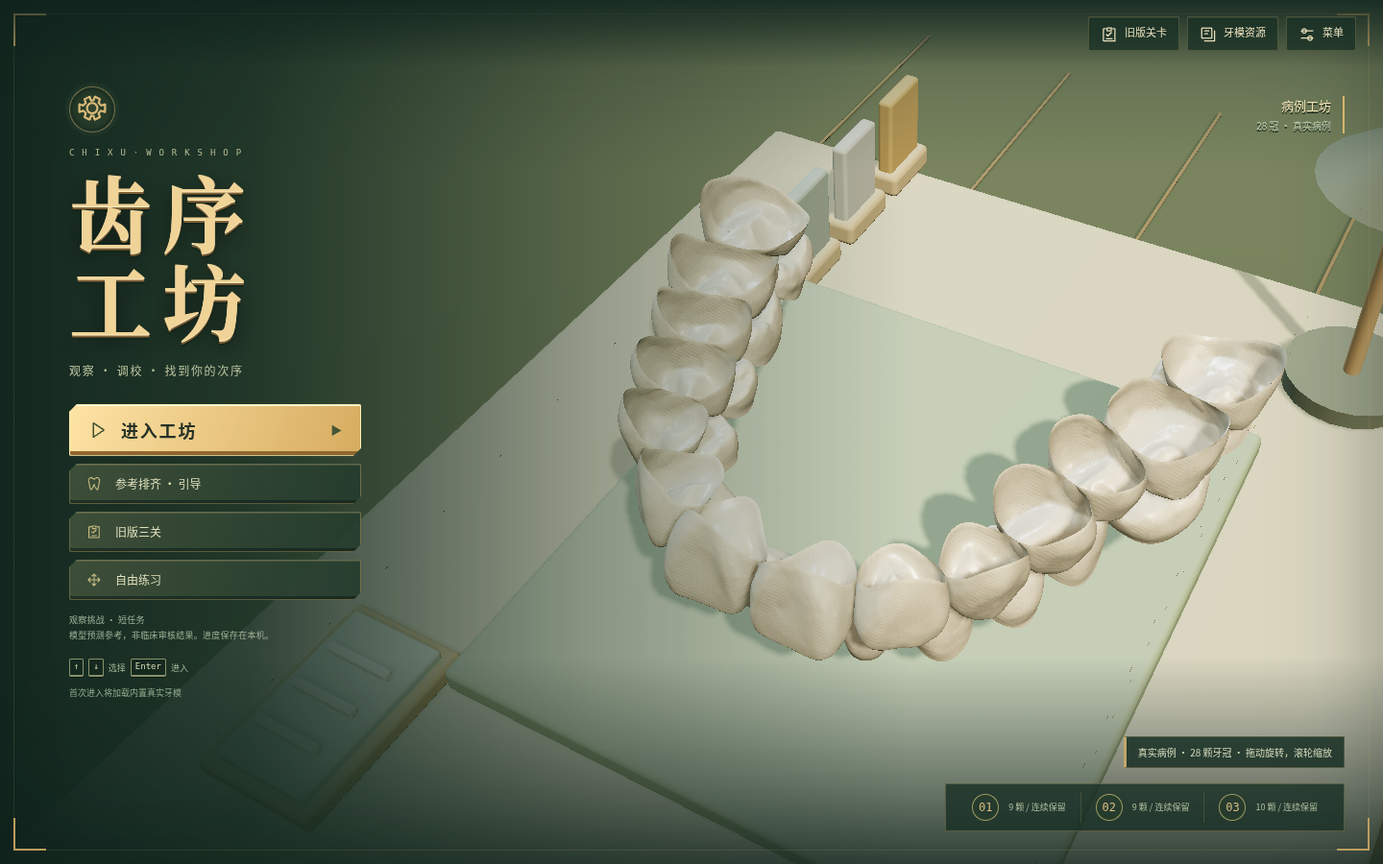
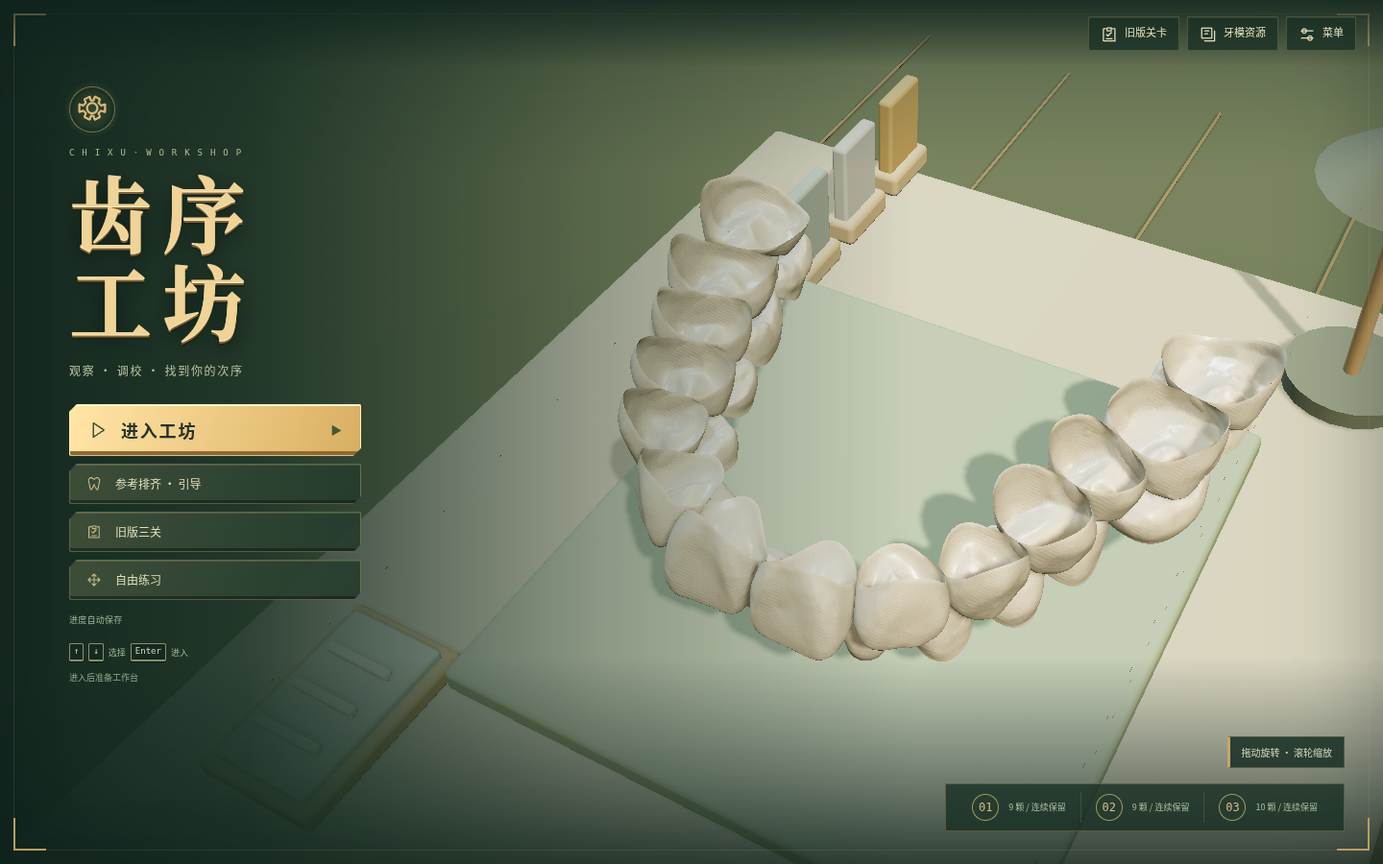
Remove development and provenance copy from player screens

Changed region(s): [[0.0312, 0.7156, 0.1875, 0.8089], [0.8125, 0.84, 0.9062, 0.9022], [0.9062, 0.1244, 0.9688, 0.1556]]

diff --git a/chi-xu-workshop/src/interaction-workshop.ts b/chi-xu-workshop/src/interaction-workshop.ts
@@ -138,7 +138,7 @@ export function mountPrediction(
     const label = labels[action] ?? text;
     return `<button data-int-action="${action}" title="${tips[action] ?? text}" aria-label="${tips[action] ?? text}"${["undo", "redo"].includes(action) ? ' data-icon-only="true"' : ""}>${uiIcon(action)}<span class="button-copy">${keycaps[action] ? label.replace(/ · (G|R|Esc)$/, "") : label}</span>${keycaps[action] ? `<kbd>${keycaps[action]}</kbd>` : ""}</button>`;
   };
-  app.innerHTML = `<header class="in-game"><button class="brand" data-int-action="exit"><span class="brand-mark">齿</span><span>齿序工坊<small>观察挑战 / 短任务</small></span></button><nav>${b("全屏", "fullscreen")}${b("导出记录", "export")}${b("回到首页", "exit")}</nav></header><main class="interaction-workshop"><div class="game-heading"><div><span class="eyebrow" id="int-batch"></span><h2 id="int-heading"></h2></div><span id="int-total"></span></div><section id="int-match" aria-label="当前参考匹配"><div><span id="int-score-label">当前任务 · 参考匹配</span><strong id="int-score">0.00</strong><small>/ 100</small></div><div id="int-score-meter" role="progressbar" aria-label="参考匹配指数" aria-valuemin="0" aria-valuemax="100" aria-valuenow="0"><span></span></div><p id="int-score-detail"></p><p id="int-best"></p></section><nav class="int-panel-tabs" aria-label="游戏面板">${b("任务", "panel-task")}${b("方案", "panel-plans")}${b("回放", "replay")}${b("返回操作", "current")}</nav><section class="int-layout"><div class="int-stage"><div id="int-viewport"><div class="game-stage-frame" aria-hidden="true"><i></i><i></i><i></i><i></i><span>CHI XU / CASE WORKBENCH</span></div><div id="int-compare-canvas"></div><div id="int-tooth-label"></div><div id="int-mode-banner" role="status"></div><div id="int-motion-cue" role="status" hidden></div><div id="int-divider" hidden role="slider" aria-label="拖动对比线" aria-valuemin="0" aria-valuemax="100" aria-valuenow="50" tabindex="0"></div><div id="int-curtain" hidden><span>原始</span><span>当前</span><input aria-label="前后对比滑帘" type="range" min="0" max="100" value="50"></div></div><div class="int-viewbar">${b("整体看", "view-overview")}${b("从上面看", "view-occlusal")}${b("换个角度", "view-front")}${b("另一侧", "view-side")}${b("放大观察", "focus")}${b("退远一点", "zoom")}</div><section class="int-controls" aria-label="牙齿操作"><div class="int-toolbar">${b("挪位置", "translate")}${b("转方向", "rotate")}<label>世界轴 <select id="int-axis" aria-label="调整轴"><option>X</option><option>Y</option><option>Z</option></select></label><label><input id="int-fine" type="checkbox">细调</label></div><p id="int-instruction"></p><div class="int-toolbar">${b("− 反向（可长按）", "minus")}${b("＋ 正向（可长按）", "plus")}${b("取消拖动 · Esc", "cancel")}${b("撤销", "undo")}${b("重做", "redo")}${b("核对这颗", "check")}</div><div class="int-toolbar int-observe-tools">${b("按住查看参考", "hold")}${b("参考轮廓", "hint")}${b("前后滑帘", "compare")}${b("双牙对照", "pair")}${b("声音：关", "sound")}</div><div class="int-toolbar">${b("先预览反向一步", "preview-minus")}${b("先预览正向一步", "preview-plus")}${b("应用试步", "apply-trial")}</div><p id="int-readout"></p><p id="int-feedback" role="status"></p></section></div><section id="int-task-panel" class="int-floating-panel" aria-label="任务面板"><div class="int-panel-heading"><strong>任务档案</strong>${b("收起", "close-panel")}</div><aside id="int-sidebar"></aside></section><section id="int-plans-panel" class="int-floating-panel" aria-label="方案试验台" hidden><div class="int-panel-heading"><strong>方案试验台</strong>${b("收起", "close-panel")}</div><div class="int-plan-actions">${b("保存当前尝试", "save-attempt")}${b("恢复个人最佳", "restore-best")}</div><section class="int-open-lab" aria-label="开放试验"><strong>开放试验 · 不要求唯一终点</strong><p>选择过程目标：将所选差距缩小至少 40%，另一项不变差。达成后可保存当前尝试；最终核对仍使用原参考。</p><label>试验目标<select id="int-lab-goal" aria-label="试验目标"><option value="position">先改善位置，保持方向</option><option value="rotation">先改善方向，保持位置</option><option value="balanced">位置与方向一起改善</option></select></label>${b("开始开放试验", "start-lab")}<p id="int-lab-status" role="status"></p></section><p id="int-book-warning" role="status"></p><div id="int-plans"></div><details><summary>匹配指数如何计算</summary><p>分别计算本任务牙齿与预测参考的位置、角度均方根误差；按初始差距归一化（下限为软件容差），比较合计差距得到 0—100 指数。指数只表示参考差距，逐牙核对仍须同时满足位置和方向条件。自动保留本任务指数最高的尝试，手动保留最近 12 份方案。</p></details></section></section><section class="int-replay int-floating-panel" id="int-replay-panel" aria-label="回放面板" hidden><div class="int-panel-heading"><strong>操作时间轴与自评</strong>${b("收起", "close-panel")}</div><div class="int-toolbar">${b("从起点回看", "replay-start")}${b("回到实际进度", "return-live")}${b("另开一次练习", "retry")}</div><label>拖动回看 <input id="int-timeline" aria-label="操作时间轴" type="range" min="0" value="0" max="0"></label><p id="int-replay-label"></p><ol id="int-events"></ol><p id="int-stats"></p><p class="reference-note">回放只读；新练习使用独立存档。时间轴保留最近 400 个操作，之前的操作合入起点。全部目标来自模型预测，非临床审核结果；颜色和提示不表示实际治疗效果。</p></section></main>`;
+  app.innerHTML = `<header class="in-game"><button class="brand" data-int-action="exit"><span class="brand-mark">齿</span><span>齿序工坊<small>观察挑战 / 短任务</small></span></button><nav>${b("全屏", "fullscreen")}${b("导出记录", "export")}${b("回到首页", "exit")}</nav></header><main class="interaction-workshop"><div class="game-heading"><div><span class="eyebrow" id="int-batch"></span><h2 id="int-heading"></h2></div><span id="int-total"></span></div><section id="int-match" aria-label="当前参考匹配"><div><span id="int-score-label">当前任务 · 参考匹配</span><strong id="int-score">0.00</strong><small>/ 100</small></div><div id="int-score-meter" role="progressbar" aria-label="参考匹配指数" aria-valuemin="0" aria-valuemax="100" aria-valuenow="0"><span></span></div><p id="int-score-detail"></p><p id="int-best"></p></section><nav class="int-panel-tabs" aria-label="游戏面板">${b("任务", "panel-task")}${b("方案", "panel-plans")}${b("回放", "replay")}${b("返回操作", "current")}</nav><section class="int-layout"><div class="int-stage"><div id="int-viewport"><div class="game-stage-frame" aria-hidden="true"><i></i><i></i><i></i><i></i><span>CHI XU / CASE WORKBENCH</span></div><div id="int-compare-canvas"></div><div id="int-tooth-label"></div><div id="int-mode-banner" role="status"></div><div id="int-motion-cue" role="status" hidden></div><div id="int-divider" hidden role="slider" aria-label="拖动对比线" aria-valuemin="0" aria-valuemax="100" aria-valuenow="50" tabindex="0"></div><div id="int-curtain" hidden><span>原始</span><span>当前</span><input aria-label="前后对比滑帘" type="range" min="0" max="100" value="50"></div></div><div class="int-viewbar">${b("整体看", "view-overview")}${b("从上面看", "view-occlusal")}${b("换个角度", "view-front")}${b("另一侧", "view-side")}${b("放大观察", "focus")}${b("退远一点", "zoom")}</div><section class="int-controls" aria-label="牙齿操作"><div class="int-toolbar">${b("挪位置", "translate")}${b("转方向", "rotate")}<label>世界轴 <select id="int-axis" aria-label="调整轴"><option>X</option><option>Y</option><option>Z</option></select></label><label><input id="int-fine" type="checkbox">细调</label></div><p id="int-instruction"></p><div class="int-toolbar">${b("− 反向（可长按）", "minus")}${b("＋ 正向（可长按）", "plus")}${b("取消拖动 · Esc", "cancel")}${b("撤销", "undo")}${b("重做", "redo")}${b("核对这颗", "check")}</div><div class="int-toolbar int-observe-tools">${b("按住查看参考", "hold")}${b("参考轮廓", "hint")}${b("前后滑帘", "compare")}${b("双牙对照", "pair")}${b("声音：关", "sound")}</div><div class="int-toolbar">${b("先预览反向一步", "preview-minus")}${b("先预览正向一步", "preview-plus")}${b("应用试步", "apply-trial")}</div><p id="int-readout"></p><p id="int-feedback" role="status"></p></section></div><section id="int-task-panel" class="int-floating-panel" aria-label="任务面板"><div class="int-panel-heading"><strong>任务档案</strong>${b("收起", "close-panel")}</div><aside id="int-sidebar"></aside></section><section id="int-plans-panel" class="int-floating-panel" aria-label="方案试验台" hidden><div class="int-panel-heading"><strong>方案试验台</strong>${b("收起", "close-panel")}</div><div class="int-plan-actions">${b("保存当前尝试", "save-attempt")}${b("恢复个人最佳", "restore-best")}</div><section class="int-open-lab" aria-label="开放试验"><strong>开放试验 · 不要求唯一终点</strong><p>选择过程目标：将所选差距缩小至少 40%，另一项不变差。达成后可保存当前尝试；最终核对仍使用原参考。</p><label>试验目标<select id="int-lab-goal" aria-label="试验目标"><option value="position">先改善位置，保持方向</option><option value="rotation">先改善方向，保持位置</option><option value="balanced">位置与方向一起改善</option></select></label>${b("开始开放试验", "start-lab")}<p id="int-lab-status" role="status"></p></section><p id="int-book-warning" role="status"></p><div id="int-plans"></div><details><summary>匹配指数如何计算</summary><p>分别计算本任务牙齿与预测参考的位置、角度均方根误差；按初始差距归一化（下限为软件容差），比较合计差距得到 0—100 指数。指数只表示参考差距，逐牙核对仍须同时满足位置和方向条件。自动保留本任务指数最高的尝试，手动保留最近 12 份方案。</p></details></section></section><section class="int-replay int-floating-panel" id="int-replay-panel" aria-label="回放面板" hidden><div class="int-panel-heading"><strong>操作时间轴与自评</strong>${b("收起", "close-panel")}</div><div class="int-toolbar">${b("从起点回看", "replay-start")}${b("回到实际进度", "return-live")}${b("另开一次练习", "retry")}</div><label>拖动回看 <input id="int-timeline" aria-label="操作时间轴" type="range" min="0" value="0" max="0"></label><p id="int-replay-label"></p><ol id="int-events"></ol><p id="int-stats"></p><p class="reference-note">回放只读；新练习使用独立存档。时间轴保留最近 400 个操作，之前的操作合入起点。</p></section></main>`;
   document.body.dataset.screen = "play";
   document.body.classList.add("interaction-mode");
   const get = <T extends HTMLElement = HTMLElement>(s: string) =>
@@ -529,7 +529,7 @@ export function mountPrediction(
               : compare
                 ? "前后滑帘 · 只读"
                 : done()
-                  ? "全部 28 颗达到模型预测参考"
+                  ? "全部任务已完成"
                   : !observed
                     ? "观察阶段 · 先从两个角度看，再提交判断"
                     : "";
@@ -996,7 +996,7 @@ export function mountPrediction(
           peer = null;
           hint = false;
           feedback = done()
-            ? "全部 28 颗已核对到模型预测参考。"
+            ? "全部任务已完成，可以回看你的调整过程。"
             : "上个任务结果连续保留，开始下一次观察。";
           apply();
           hud();

diff --git a/chi-xu-workshop/src/main.ts b/chi-xu-workshop/src/main.ts
@@ -103,7 +103,7 @@ function render(){
  const main=$('#main')!;
  if(screen==='home'){
  let workshopSave=false;try{workshopSave=!!localStorage.getItem('chi-xu-workshop:reference-challenge:v2');}catch{}
- main.innerHTML=`<section class="home game-title"><figure class="hero title-studio"><div id="title-studio" aria-label="可旋转的真实3D牙模"></div><div class="title-vignette" aria-hidden="true"></div><div class="specimen-label"><span>病例工坊</span><small>28 冠 · 真实病例</small></div><figcaption id="studio-status" role="status">正在准备真实牙模…</figcaption></figure><div class="title-frame" aria-hidden="true"><i></i><i></i><i></i><i></i></div><div class="home-copy"><div class="title-crest" aria-hidden="true">${uiIcon('emblem')}</div><div class="eyebrow">C H I X U · W O R K S H O P</div><h1>齿序<span>工坊</span></h1><p class="lead">观察 · 调校 · 找到你的次序</p><nav class="home-card" aria-label="游戏主菜单">${btn(workshopSave?'继续工坊':'进入工坊','interaction',true,false,'data-menu-primary="true"')}${btn('参考排齐 · 引导','prediction')}${hasSave()?btn('继续旧版挑战','continue'):btn('旧版三关','new')}${btn('自由练习','practice')}${hasSave()?btn('重开旧版挑战','new'):''}<small>观察挑战 · 短任务<br>模型预测参考，非临床审核结果。进度保存在本机。</small></nav><div class="home-menu-help"><kbd>↑</kbd><kbd>↓</kbd> 选择 <kbd>Enter</kbd> 进入</div><p class="asset-status">${assets?'真实牙模已就绪':'首次进入将加载内置真实牙模'}</p></div><div class="title-chapters" aria-label="同一病例的三个连续批次">${[9,9,10].map((n,i)=>`<span><b>0${i+1}</b><small>${n} 颗 / 连续保留</small></span>`).join('')}</div></section>${warning?`<div class="warning title-warning">${esc(warning)}${btn('导出旧记录','export-raw')}</div>`:''}`;
+ main.innerHTML=`<section class="home game-title"><figure class="hero title-studio"><div id="title-studio" aria-label="可旋转的牙模"></div><div class="title-vignette" aria-hidden="true"></div><figcaption id="studio-status" role="status">正在准备工坊…</figcaption></figure><div class="title-frame" aria-hidden="true"><i></i><i></i><i></i><i></i></div><div class="home-copy"><div class="title-crest" aria-hidden="true">${uiIcon('emblem')}</div><div class="eyebrow">C H I X U · W O R K S H O P</div><h1>齿序<span>工坊</span></h1><p class="lead">观察 · 调校 · 找到你的次序</p><nav class="home-card" aria-label="游戏主菜单">${btn(workshopSave?'继续工坊':'进入工坊','interaction',true,false,'data-menu-primary="true"')}${btn('参考排齐 · 引导','prediction')}${hasSave()?btn('继续旧版挑战','continue'):btn('旧版三关','new')}${btn('自由练习','practice')}${hasSave()?btn('重开旧版挑战','new'):''}<small>进度自动保存</small></nav><div class="home-menu-help"><kbd>↑</kbd><kbd>↓</kbd> 选择 <kbd>Enter</kbd> 进入</div><p class="asset-status">${assets?'工坊已就绪':'进入后准备工作台'}</p></div><div class="title-chapters" aria-label="同一病例的三个连续批次">${[9,9,10].map((n,i)=>`<span><b>0${i+1}</b><small>${n} 颗 / 连续保留</small></span>`).join('')}</div></section>${warning?`<div class="warning title-warning">${esc(warning)}${btn('导出旧记录','export-raw')}</div>`:''}`;
  disposeStudio=mountStudio($('#title-studio')!,$('#studio-status')!,assets);
  }else if(screen==='levels'){
  const count=session?.saved_snapshots.length??0;
@@ -236,10 +236,10 @@ function installCase(next:CaseAssets){
 }
 async function loadBuiltIn(after=''){
  if(loadingBuiltIn)return;
- loadingBuiltIn=true;requestedAfterLoad=after;const loadingDialog=$<HTMLDialogElement>('#modal')!;loadingDialog.innerHTML=`<div class="loading-workbench"><span class="loading-symbol" aria-hidden="true">＋</span><h2>正在准备工作台</h2><p id="load-state" role="status">正在读取真实牙模。</p><small>第一次需要一点时间，正在加载真实牙模。</small></div>`;loadingDialog.showModal();const input=$<HTMLInputElement>('#case-files');if(input)input.disabled=true;
- const status=$('#load-state');if(status)status.textContent='正在校验内置病例清单…';
+ loadingBuiltIn=true;requestedAfterLoad=after;const loadingDialog=$<HTMLDialogElement>('#modal')!;loadingDialog.innerHTML=`<div class="loading-workbench"><span class="loading-symbol" aria-hidden="true">＋</span><h2>正在准备工作台</h2><p id="load-state" role="status">正在准备工作台。</p><small>首次进入需要一点时间。</small></div>`;loadingDialog.showModal();const input=$<HTMLInputElement>('#case-files');if(input)input.disabled=true;
+ const status=$('#load-state');if(status)status.textContent='正在准备工作台…';
  try{
-  const next=await loadBundledCase(text=>{const label=$('#load-state');if(label){const match=text.match(/(\d+)\/28/);label.textContent=match?`正在摆好牙齿 ${match[1]} / 28`:text;}});
+  const next=await loadBundledCase(text=>{const label=$('#load-state');if(label){const match=text.match(/(\d+)\/28/);label.textContent=match?`正在摆好牙齿 ${match[1]} / 28`:'正在准备工作台…';}});
   installCase(next);$<HTMLDialogElement>('#modal')?.close();screen='home';render();
   if(after==='new')newChallenge();else if(after==='continue')resume();else if(after==='practice')startPractice();else if(after==='prediction')void openPrediction();else if(after==='interaction')void openPrediction(true);
  }catch(err){openAssets(after);const label=$('#load-state');if(label){label.textContent=String(err);label.classList.add('error');}else toast(String(err));}
@@ -247,7 +247,7 @@ async function loadBuiltIn(after=''){
 }
 
 let requestedAfterLoad='';
-function openAssets(after=''){requestedAfterLoad=after;const d=$<HTMLDialogElement>('#modal')!;d.innerHTML=`<div class="dialog-heading"><div><span class="eyebrow">病例资源 / 本机读取</span><h2>接入真实牙冠</h2></div>${btn('关闭','close-modal')}</div><p>已收到用户上传的 28 个真实 STL，可直接加载内置病例。若要更换病例，也可选择本机文件。Windows 原路径 <code>D:\\论文复现\\CLIK-Diffusion-main\\Data\\256_crown\\initial\\</code> 未直接挂载；可以选择 28 个 STL 和已填写的病例 JSON。文件仅在浏览器内解析，不上传服务器。</p><div class="warning">真实网格已接入；单位、上下颌、FDI、邻接与教学角色仍待核对。编号直接沿用 STL 文件名，不自动转换牙位。</div><ol><li>在 Windows 工作目录运行 <code>node scripts/inspect-assets.mjs --source "D:\\论文复现\\CLIK-Diffusion-main\\Data\\256_crown\\initial" --out case.draft.json</code>。</li><li>核对草稿中的模型编号、上下颌、来源、单位、相机与教学轴。未知 FDI 保持 null，未知单位使用 u。</li><li>将文件改名为 case.json，与原始 STL 一起选择。不会根据文件顺序自动映射牙位。</li></ol><label class="file-drop">选择病例 JSON 和 28 个 STL<input id="case-files" type="file" accept=".json,.stl,.STL" multiple></label><p id="load-state" role="status">${assets?`已载入：${esc(m().case_id)} · ${assets.assets.length} 颗牙冠 · ${assets.assets.reduce((s,a)=>s+a.triangles,0).toLocaleString()} 三角形`:'尚未载入病例'}</p><div class="button-row">${btn(loadingBuiltIn?'正在加载真实病例…':'加载已上传的真实病例','load-built-in',true,loadingBuiltIn)}${btn('下载参数模板','template')}${btn('导出旧存档','export-raw')}</div><p class="muted">单位、牙位和教学角色未审核时只能标为原型位姿练习。真实网格、来源审核与性能实测完成前不视为正式交付。</p>`;d.showModal();}
+function openAssets(after=''){requestedAfterLoad=after;const d=$<HTMLDialogElement>('#modal')!;d.innerHTML=`<div class="dialog-heading"><div><span class="eyebrow">练习设置</span><h2>选择练习模型</h2></div>${btn('关闭','close-modal')}</div><p>可以直接开始内置练习，或导入自己的病例 JSON 和对应的 28 个 STL。导入文件仅在本机读取。</p><details><summary>导入格式说明</summary><p>请使用参数模板填写模型编号，并确保每个编号、文件名和校验值与 STL 对应。填写完成后，将病例 JSON 与对应 STL 一起选择。</p></details><label class="file-drop">选择病例 JSON 和 28 个 STL<input id="case-files" type="file" accept=".json,.stl,.STL" multiple></label><p id="load-state" role="status">${assets?'练习已就绪':'请选择练习'}</p><div class="button-row">${btn(loadingBuiltIn?'正在准备练习…':'开始内置练习','load-built-in',true,loadingBuiltIn)}${btn('下载参数模板','template')}${btn('导出旧存档','export-raw')}</div>`;d.showModal();}
 function template(){exportData({case_id:'请填写匿名病例ID',asset_version:'待核对-v1',config_version:'prd-v1-provisional',unit:'u',unit_confirmed:false,scale:1,source:'待核对',usage_status:'待核对',teaching_reviewed:false,adjacency_confirmed:false,adjacency:[],teeth:Array.from({length:28},(_,i)=>({mesh_id:String(i+1),mesh_uri:'请填写对应原始文件名-'+(i+1)+'.stl',checksum:'请填写实际SHA256',jaw_group:'unknown',FDI:null,origin:[0,0,0],source:'待核对',usage_status:'待核对'})),levels:defaultLevels()},'case.template.json');}
 function openSettings(){const d=$<HTMLDialogElement>('#modal')!;d.innerHTML=`<div class="dialog-heading"><h2>歇一下，再继续</h2>${btn('回到游戏','close-modal',true)}</div><div class="menu-options">${btn('关卡地图','levels')}${btn('回到首页','home')}${assets?btn('保存一份记录','export'):''}</div><label class="setting"><input id="low-mode" type="checkbox" ${low?'checked':''}>画面更流畅（减少显示细节）</label><label class="setting"><input id="reduce-motion" type="checkbox" ${reduced?'checked':''}>减少动画</label><label class="setting"><input id="show-base" type="checkbox" ${showBase?'checked':''}>显示小工作台</label><details><summary>资源与练习说明</summary><p>这是一段牙齿摆放练习，不是诊疗建议。真实牙位、单位与教学角色仍待核对。触屏先使用点选和按钮；暂无音效。</p>${btn('牙模资源与导入','assets')}${assets?btn('查看练习细节','details'):''}</details>`;d.showModal();}
 window.addEventListener('keydown',e=>{if(screen!=='home'||document.body.classList.contains('interaction-mode')||document.querySelector('dialog[open]')||(e.target as HTMLElement).closest('input,select,textarea'))return;if(e.key!=='ArrowDown'&&e.key!=='ArrowUp')return;const buttons=[...document.querySelectorAll<HTMLButtonElement>('.home-card button:not(:disabled)')];if(!buttons.length)return;e.preventDefault();const index=buttons.indexOf(document.activeElement as HTMLButtonElement),next=index<0?(e.key==='ArrowDown'?0:buttons.length-1):(index+(e.key==='ArrowDown'?1:-1)+buttons.length)%buttons.length;buttons[next].focus();});

diff --git a/chi-xu-workshop/src/prediction-workshop.ts b/chi-xu-workshop/src/prediction-workshop.ts
@@ -50,7 +50,7 @@ export function mountPrediction(app:HTMLElement,assets:CaseAssets,reference:Pred
   get('#reference-total').textContent=`全病例 ${completed} / 28 颗到达参考`;
   const error=poseError(referencePoses(data,progress)[selected],data.target[selected]);
   get('#reference-controls').innerHTML=`<div class="motion-heading"><strong>文件 ${selected} · 引导模式</strong></div><p class="motion-explanation">此入口用按钮同步移动与旋转，进度条只读。要分别练习位置和方向，请回首页选择“观察挑战 · 短任务”。</p><div class="motion-buttons">${b('← 退一步','back',!editing()||progress.steps[selected]===0)}${b('朝目标前进一步 →','forward',!editing()||progress.steps[selected]===10)}</div><div class="reference-progress" role="progressbar" aria-label="参考路径进度（只读）" aria-valuemin="0" aria-valuemax="100" aria-valuenow="${progress.steps[selected]*10}"><span style="width:${progress.steps[selected]*10}%"></span></div><p class="reference-readout"><span id="reference-percent">${progress.steps[selected]*10}%</span> · 距参考 ${error.position.toFixed(2)} u / ${error.rotation.toFixed(1)}°</p><div class="reference-mini-actions">${b('撤销','undo',!editing()||!undo.length)}${b('重做','redo',!editing()||!redo.length)}${b('换下一颗','next-tooth',!editing())}</div><p class="motion-feedback" role="status">${feedback}</p>`;
-  get('#reference-sidebar').innerHTML=`<span class="eyebrow">${isDone()?'参考练习记录':'当前批次'}</span><h2>${isDone()?'全部 28 颗均已核对到参考位置。':`本批 ${group.filter(id=>progress.steps[id]===10).length} / ${group.length} 颗到达参考`}</h2><p class="reference-explanation">${isDone()?'最终画面使用你上传结果中的全部 28 个刚体变换。':`完成本批只代表这 ${group.length} 颗到位，仍有 ${28-completed} 颗未到参考位置，不代表整副牙齿已排齐。`}</p><div class="reference-tooth-list">${group.map((id,i)=>`<button data-pred-action="select-${id}" aria-pressed="${selected===id}" ${isDone()?'disabled':''}><span>${progress.steps[id]===10?'✓':i+1}</span><strong>文件 ${id}</strong><small>${progress.steps[id]*10}%</small></button>`).join('')}</div><div class="comparison-controls">${b('看原始牙列','original')}${b('看模型参考','target')}${comparison?b('返回当前进度','current'):''}</div>${!isDone()?b(progress.stage===3?'核对全部 28 颗并完成':`保存本批，继续第 ${progress.stage+1} 批`,'save',!ready||!!comparison):''}<p class="reference-note">${isDone()?'模型预测参考，不是经临床审核的矫正结果。':'按原文件编号分批，编号不代表已确认牙位；前批结果连续保留。'} 旧版操作练习的进度单独保留。</p>`;
+  get('#reference-sidebar').innerHTML=`<span class="eyebrow">${isDone()?'参考练习记录':'当前批次'}</span><h2>${isDone()?'全部 28 颗均已核对到参考位置。':`本批 ${group.filter(id=>progress.steps[id]===10).length} / ${group.length} 颗到达参考`}</h2><p class="reference-explanation">${isDone()?'挑战完成！回看你的调整成果。':`完成本批只代表这 ${group.length} 颗到位，仍有 ${28-completed} 颗未到参考位置，不代表整副牙齿已排齐。`}</p><div class="reference-tooth-list">${group.map((id,i)=>`<button data-pred-action="select-${id}" aria-pressed="${selected===id}" ${isDone()?'disabled':''}><span>${progress.steps[id]===10?'✓':i+1}</span><strong>文件 ${id}</strong><small>${progress.steps[id]*10}%</small></button>`).join('')}</div><div class="comparison-controls">${b('看原始牙列','original')}${b('看模型参考','target')}${comparison?b('返回当前进度','current'):''}</div>${!isDone()?b(progress.stage===3?'核对全部 28 颗并完成':`保存本批，继续第 ${progress.stage+1} 批`,'save',!ready||!!comparison):''}<p class="reference-note">${isDone()?'全部任务已保存。':'本批完成后继续下一批，之前的成果会保留。'}</p>`;
   const banner=get('#reference-banner');banner.hidden=!comparison;banner.textContent=comparison=== 'original'?'原始牙列 · 仅查看，进度不变':comparison==='target'?'模型预测参考 · 仅查看，尚未完成的牙不会因此过关':'';
   drawMarker();
  }

diff --git a/chi-xu-workshop/tests/browser/game.spec.ts b/chi-xu-workshop/tests/browser/game.spec.ts
@@ -17,11 +17,11 @@ async function load(p:Page){await p.goto('/');await click(p,'assets');await p.lo
 async function nudge(p:Page,id:string,tool:string,axis:string,sign:string,count:number){await click(p,'select-'+id);await click(p,'tool-'+tool);for(let i=0;i<count;i++)await click(p,'guide-forward');}
 async function save(p:Page){await click(p,'review');await expect(p.locator('[data-action="save-stage"]')).toBeEnabled();await click(p,'save-stage');await expect(p.locator('#sidebar')).toContainText('完成');}
 test('缺少资源时保持真实空状态；首页与设置在三种分辨率可用',async({page})=>{
- const errors:string[]=[];page.on('pageerror',e=>errors.push(e.message));await page.route('**/cases/initial/manifest.json',r=>r.fulfill({status:404,body:'missing test'}));await page.goto('/');await expect(page.locator('.asset-status')).toBeVisible();await expect(page.locator('.asset-status')).toContainText('内置真实牙模');await expect(page.locator('[data-action="continue"]')).toHaveCount(0);await click(page,'new');await expect(page.locator('dialog')).toContainText('28 个 STL');await expect(page.locator('#load-state')).toContainText('内置病例暂不可用');await click(page,'close-modal');
+ const errors:string[]=[];page.on('pageerror',e=>errors.push(e.message));await page.route('**/cases/initial/manifest.json',r=>r.fulfill({status:404,body:'missing test'}));await page.goto('/');await expect(page.locator('.asset-status')).toBeVisible();await expect(page.locator('.asset-status')).toContainText('进入后准备工作台');await expect(page.locator('[data-action="continue"]')).toHaveCount(0);await click(page,'new');await expect(page.locator('dialog')).toContainText('28 个 STL');await expect(page.locator('#load-state')).toContainText('内置病例暂不可用');await click(page,'close-modal');
  for(const [width,height] of [[1440,900],[1366,768],[1024,768]]){await page.setViewportSize({width,height});expect(await page.evaluate(()=>document.documentElement.scrollWidth<=innerWidth)).toBe(true);}
  await page.setViewportSize({width:1440,height:900});await page.screenshot({path:'test-results/home-1440.png',fullPage:true});await click(page,'settings');await page.locator('#reduce-motion').check();await click(page,'close-modal');expect(errors).toEqual([]);
 });
-test('真实导入路径的校验拒绝错误 checksum；不留半载入状态',async({page})=>{await page.goto('/');await click(page,'assets');const data=files();const manifest=JSON.parse(data.at(-1)!.buffer.toString());manifest.teeth[0].checksum='0'.repeat(64);data.at(-1)!.buffer=Buffer.from(JSON.stringify(manifest));await page.locator('#case-files').setInputFiles(data);await expect(page.locator('#load-state')).toContainText('SHA-256');await click(page,'close-modal');await expect(page.locator('.asset-status')).toBeVisible();await expect(page.locator('.asset-status')).toContainText('内置真实牙模');});
+test('真实导入路径的校验拒绝错误 checksum；不留半载入状态',async({page})=>{await page.goto('/');await click(page,'assets');const data=files();const manifest=JSON.parse(data.at(-1)!.buffer.toString());manifest.teeth[0].checksum='0'.repeat(64);data.at(-1)!.buffer=Buffer.from(JSON.stringify(manifest));await page.locator('#case-files').setInputFiles(data);await expect(page.locator('#load-state')).toContainText('SHA-256');await click(page,'close-modal');await expect(page.locator('.asset-status')).toBeVisible();await expect(page.locator('.asset-status')).toContainText('进入后准备工作台');});
 test('三关继承、固定、撤销、测量、恢复、自由隔离、回放及前关失效',async({page})=>{test.setTimeout(150000);
  const errors:string[]=[];page.on('pageerror',e=>errors.push(e.message));await load(page);
  await expect(page.locator('#viewport canvas')).toBeVisible();await expect(page.locator('[data-action="tool-rotate"]')).toBeDisabled();await expect(page.locator('[data-action="axis-Y"]')).toHaveCount(0);

diff --git a/chi-xu-workshop/src/studio.ts b/chi-xu-workshop/src/studio.ts
@@ -7,7 +7,7 @@ export function mountStudio(host:HTMLElement,status:HTMLElement,existing:CaseAss
  let cancelled=false,scene:WorkshopScene|null=null,owned:CaseAssets|null=null;
  const show=async()=>{
   try{
-   const data=existing??await loadBundledCase(text=>{if(!cancelled)status.textContent=text;});
+   const data=existing??await loadBundledCase(()=>{if(!cancelled)status.textContent='正在准备工坊…';});
    if(!existing)owned=data;
    if(cancelled){if(owned)disposeCase(owned);return;}
    scene=new WorkshopScene(host,false);
@@ -16,7 +16,7 @@ export function mountStudio(host:HTMLElement,status:HTMLElement,existing:CaseAss
    scene.onResize=compose;compose();
    scene.onFailure=message=>{status.textContent=message;};
    host.dataset.ready='true';host.dataset.teeth=String(data.assets.length);
-   status.textContent='真实病例 · 28 颗牙冠 · 拖动旋转，滚轮缩放';
+   status.textContent=matchMedia('(pointer: coarse)').matches?'拖动旋转 · 双指缩放':'拖动旋转 · 滚轮缩放';
   }catch(error){if(!cancelled)status.textContent=`牙模暂时无法显示：${String(error)}。可点击开始重试加载。`;}
  };
  void show();

diff --git a/chi-xu-workshop/tests/browser/title-studio.spec.ts b/chi-xu-workshop/tests/browser/title-studio.spec.ts
@@ -7,7 +7,7 @@ test('首页直接显示真实3D病例，进入与返回均不覆盖已有存档
  await expect(page.locator('#title-studio')).toHaveAttribute('data-teeth','28');
  await expect(page.locator('#title-studio canvas')).toBeVisible();
  await expect(page.locator('.hero img')).toHaveCount(0);
- await expect(page.locator('#studio-status')).toContainText('真实病例');
+ await expect(page.locator('#studio-status')).toContainText('拖动旋转');
  expect((await page.locator('#studio-status').boundingBox())!.height).toBeLessThan(70);
  await page.screenshot({path:'docs/screenshots/title-studio-1440.png',fullPage:true});
  await page.locator('[data-action="new"]').click();
